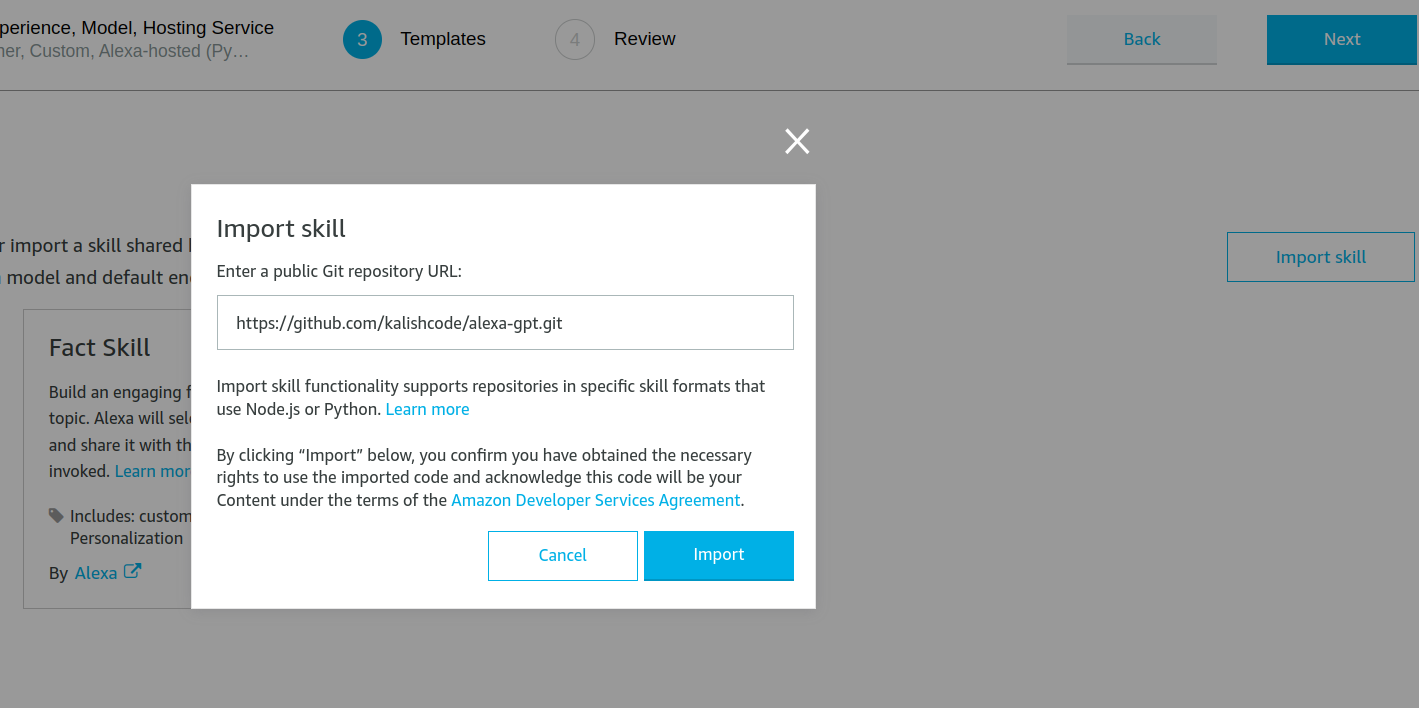
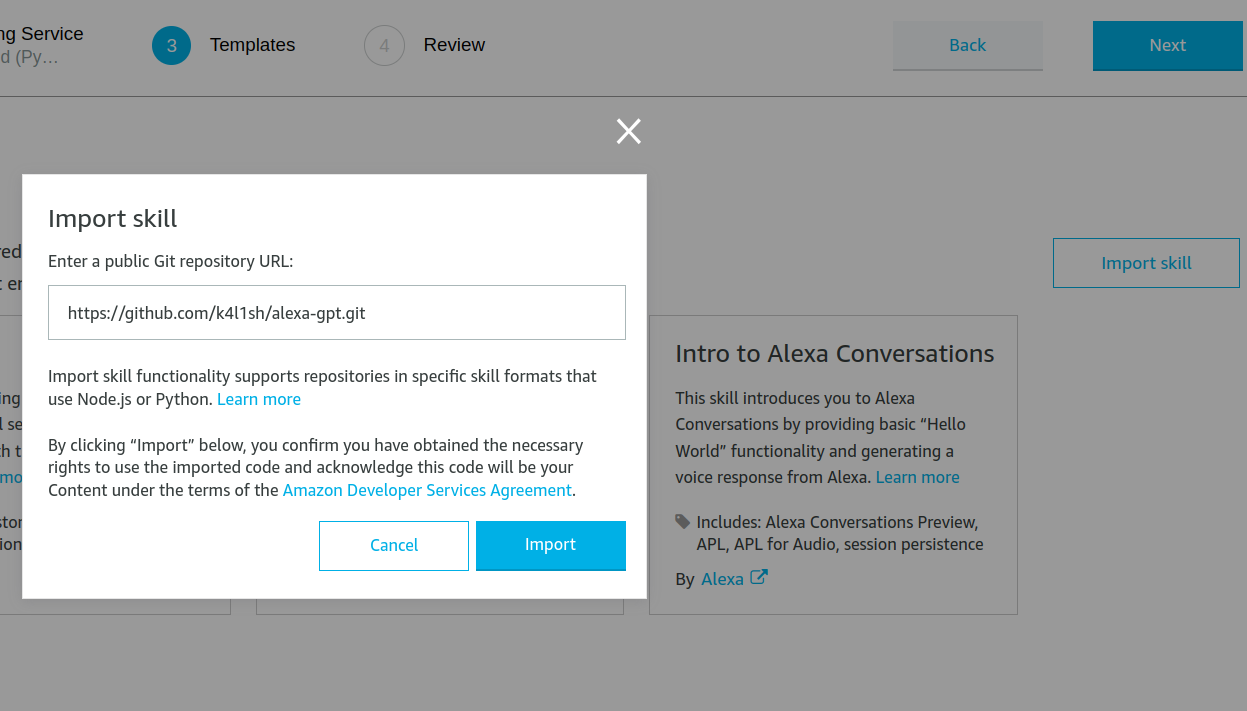
changed repo

diff --git a/README.md b/README.md
@@ -39,7 +39,7 @@ Choose "Alexa-hosted (Python)" for the backend resources.
 
 ### 5.
 You now have two options:
-- Click on "Import Skill", paste the link of this repository (https://github.com/kalishcode/alexa-gpt.git), click "Import" and go directly to [step 12](#12)
+- Click on "Import Skill", paste the link of this repository (https://github.com/k4l1sh/alexa-gpt.git), click "Import" and go directly to [step 12](#12)
 ![template](images/import_skill.png)
 
 Or if you want to import the skill manually
